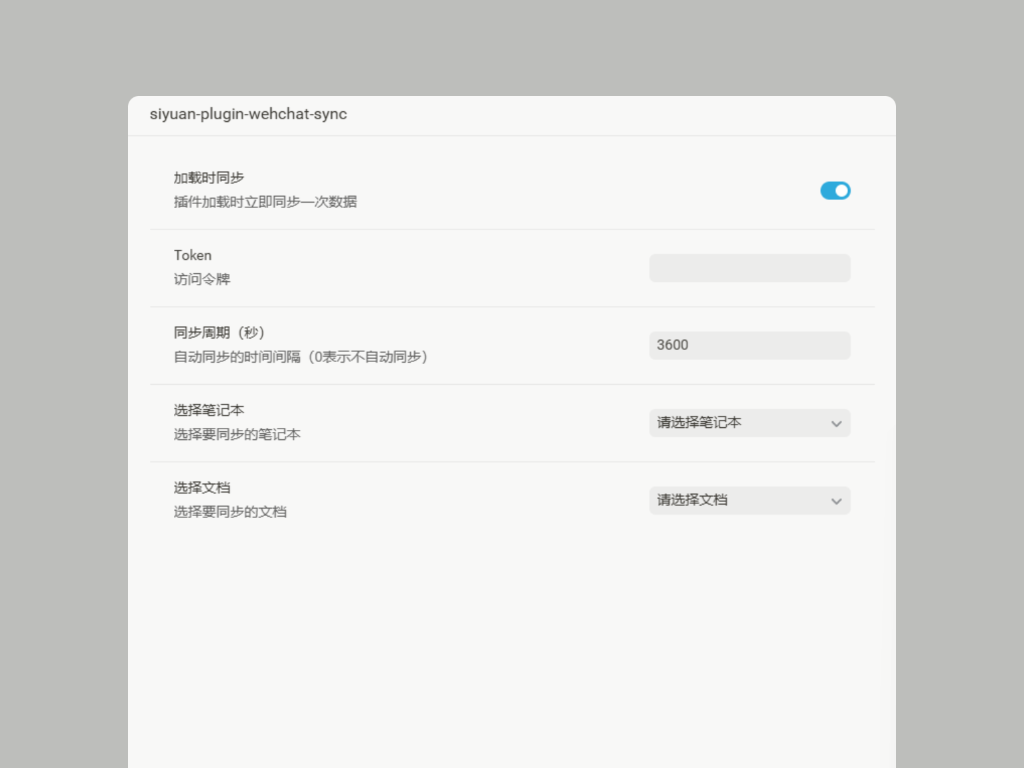
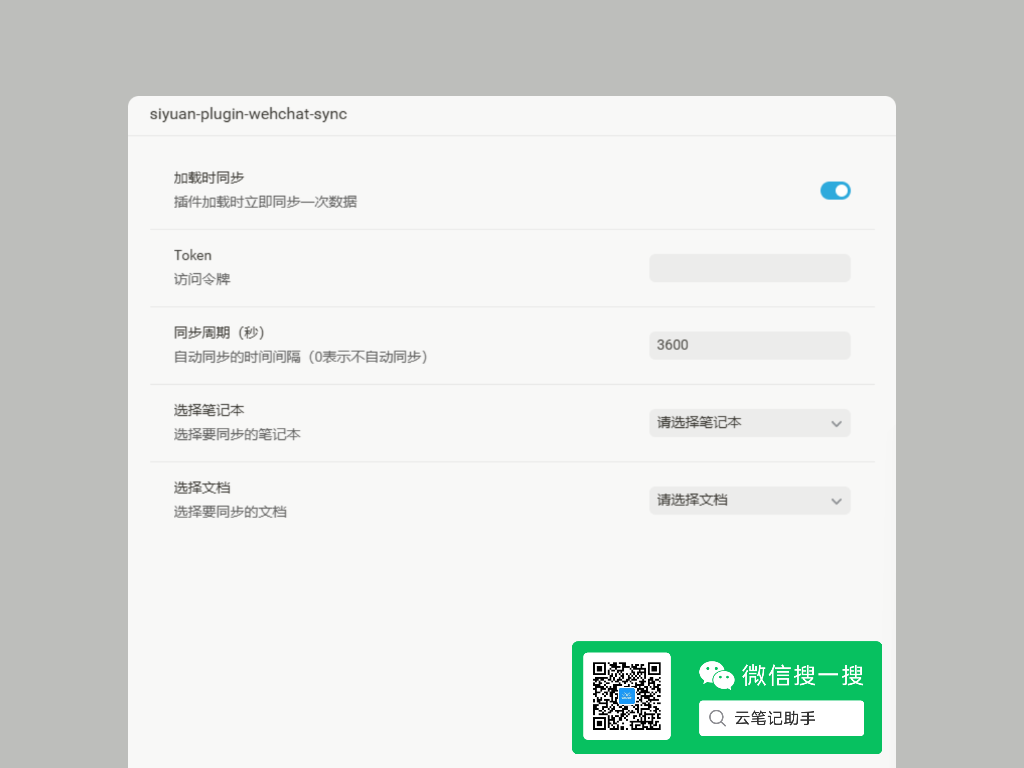
Update version to v0.3.2

Changed region(s): [[0.5312, 0.8125, 0.875, 1.0]]

diff --git a/src/config/index.ts b/src/config/index.ts
@@ -1,5 +1,5 @@
 // 版本号
-export const VERSION = "0.3.1";
+export const VERSION = "0.3.2";
 
 // 后端地址
 export const SERVER_BASE_URL = process.env.SERVER_BASE_URL || 'https://sd.cloud.ifbemore.com'

diff --git a/README_en_US.md b/README_en_US.md
@@ -4,7 +4,7 @@
 
 A plugin to sync content from the WeChat public account (云笔记助手) to Siyuan Note.
 
-<img src="./asset/wechat_qr.png" alt="wechat" width="300"/>
+<img src="https://fastly.jsdelivr.net/gh/onemorework/SiyuanWechatSync/asset/wechat_qr.png" alt="wechat" width="300"/>
 
 ## Privacy and Security
 
@@ -57,7 +57,7 @@ A plugin to sync content from the WeChat public account (云笔记助手) to Siy
 
 ## Changelog
 
-Please check [CHANGELOG.md](./CHANGELOG.md)
+Please check [CHANGELOG.md](https://fastly.jsdelivr.net/gh/onemorework/SiyuanWechatSync/CHANGELOG.md)
 
 ## Feedback
 
@@ -68,7 +68,7 @@ If you encounter any problems or have any suggestions during use, please provide
 
 ## License
 
-This plugin is open-sourced under the [LGPL-3.0](./LICENSE) license.
+This plugin is open-sourced under the [LGPL-3.0](https://fastly.jsdelivr.net/gh/onemorework/SiyuanWechatSync/LICENSE) license.
 
 ## Acknowledgements
 

diff --git a/README.md b/README.md
@@ -4,7 +4,7 @@
 
 一个用于将微信公众号（云笔记助手）的内容同步保存到思源笔记的插件。
 
-<img src="./asset/wechat_qr.png" alt="weichat" width="300"/>
+<img src="https://fastly.jsdelivr.net/gh/onemorework/SiyuanWechatSync/asset/wechat_qr.png" alt="weichat" width="300"/>
 
 ## 隐私安全说明
 
@@ -57,7 +57,7 @@
 
 ## 更新日志
 
-请查看 [CHANGELOG.md](./CHANGELOG.md)
+请查看 [CHANGELOG.md](https://fastly.jsdelivr.net/gh/onemorework/SiyuanWechatSync/CHANGELOG.md)
 
 ## 反馈问题
 
@@ -68,7 +68,7 @@
 
 ## 开源协议
 
-本插件采用 [LGPL-3.0](./LICENSE) 协议开源。
+本插件采用 [LGPL-3.0](https://fastly.jsdelivr.net/gh/onemorework/SiyuanWechatSync/LICENSE) 协议开源。
 
 ## 致谢
 

diff --git a/CHANGELOG.md b/CHANGELOG.md
@@ -1,5 +1,8 @@
 # Changelog
 
+## v0.3.2
+* 解决思源插件界面无法显示相对路径图片的问题
+
 ## v0.3.1
 * 更新日志版本号
 
